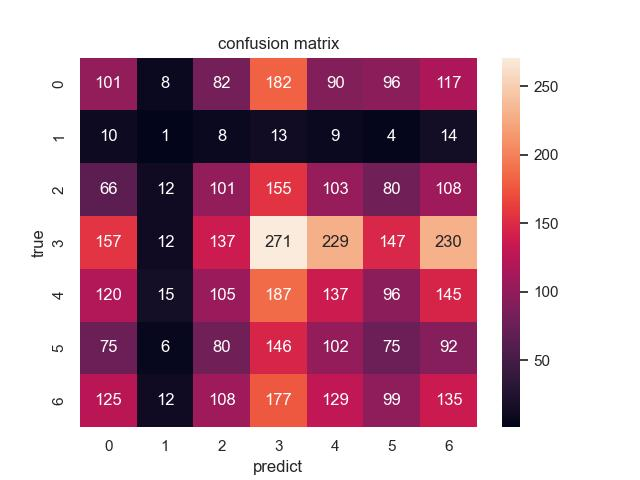
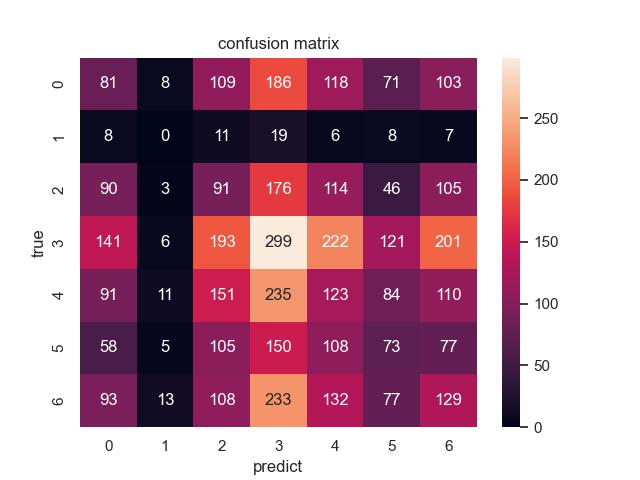
vscode test commit

diff --git a/models/ModelDefinition.py b/models/ModelDefinition.py
@@ -18,6 +18,7 @@ class CNN(nn.Module):
         self.maxpool1 = nn.MaxPool2d(kernel_size=2, stride=2)
         self.conv2 = nn.Conv2d(64, 256, kernel_size=3, stride=1, padding=1)
         self.maxpool2 = nn.MaxPool2d(kernel_size=3, stride=3)
+        self.dropout=nn.Dropout(0.3)
         self.fc1 = nn.Linear(256 * 8 * 8, 4096)
         self.fc2 = nn.Linear(4096, 1024)
         self.fc3 = nn.Linear(1024, 7)
@@ -30,13 +31,13 @@ class CNN(nn.Module):
         x = self.relu(x)
         x = self.maxpool2(x)
         x = x.view(x.size(0), -1)
-        x = nn.Dropout(0.5)
+        x = self.dropout(x)
         x = self.fc1(x)
         x = self.relu(x)
-        x = nn.Dropout(0.3)
+        x = self.dropout(x)
         x = self.fc2(x)
         x = self.relu(x)
-        x = nn.Dropout(0.2)
+        x = self.dropout(x)
         x = self.fc3(x)
         return x
 
